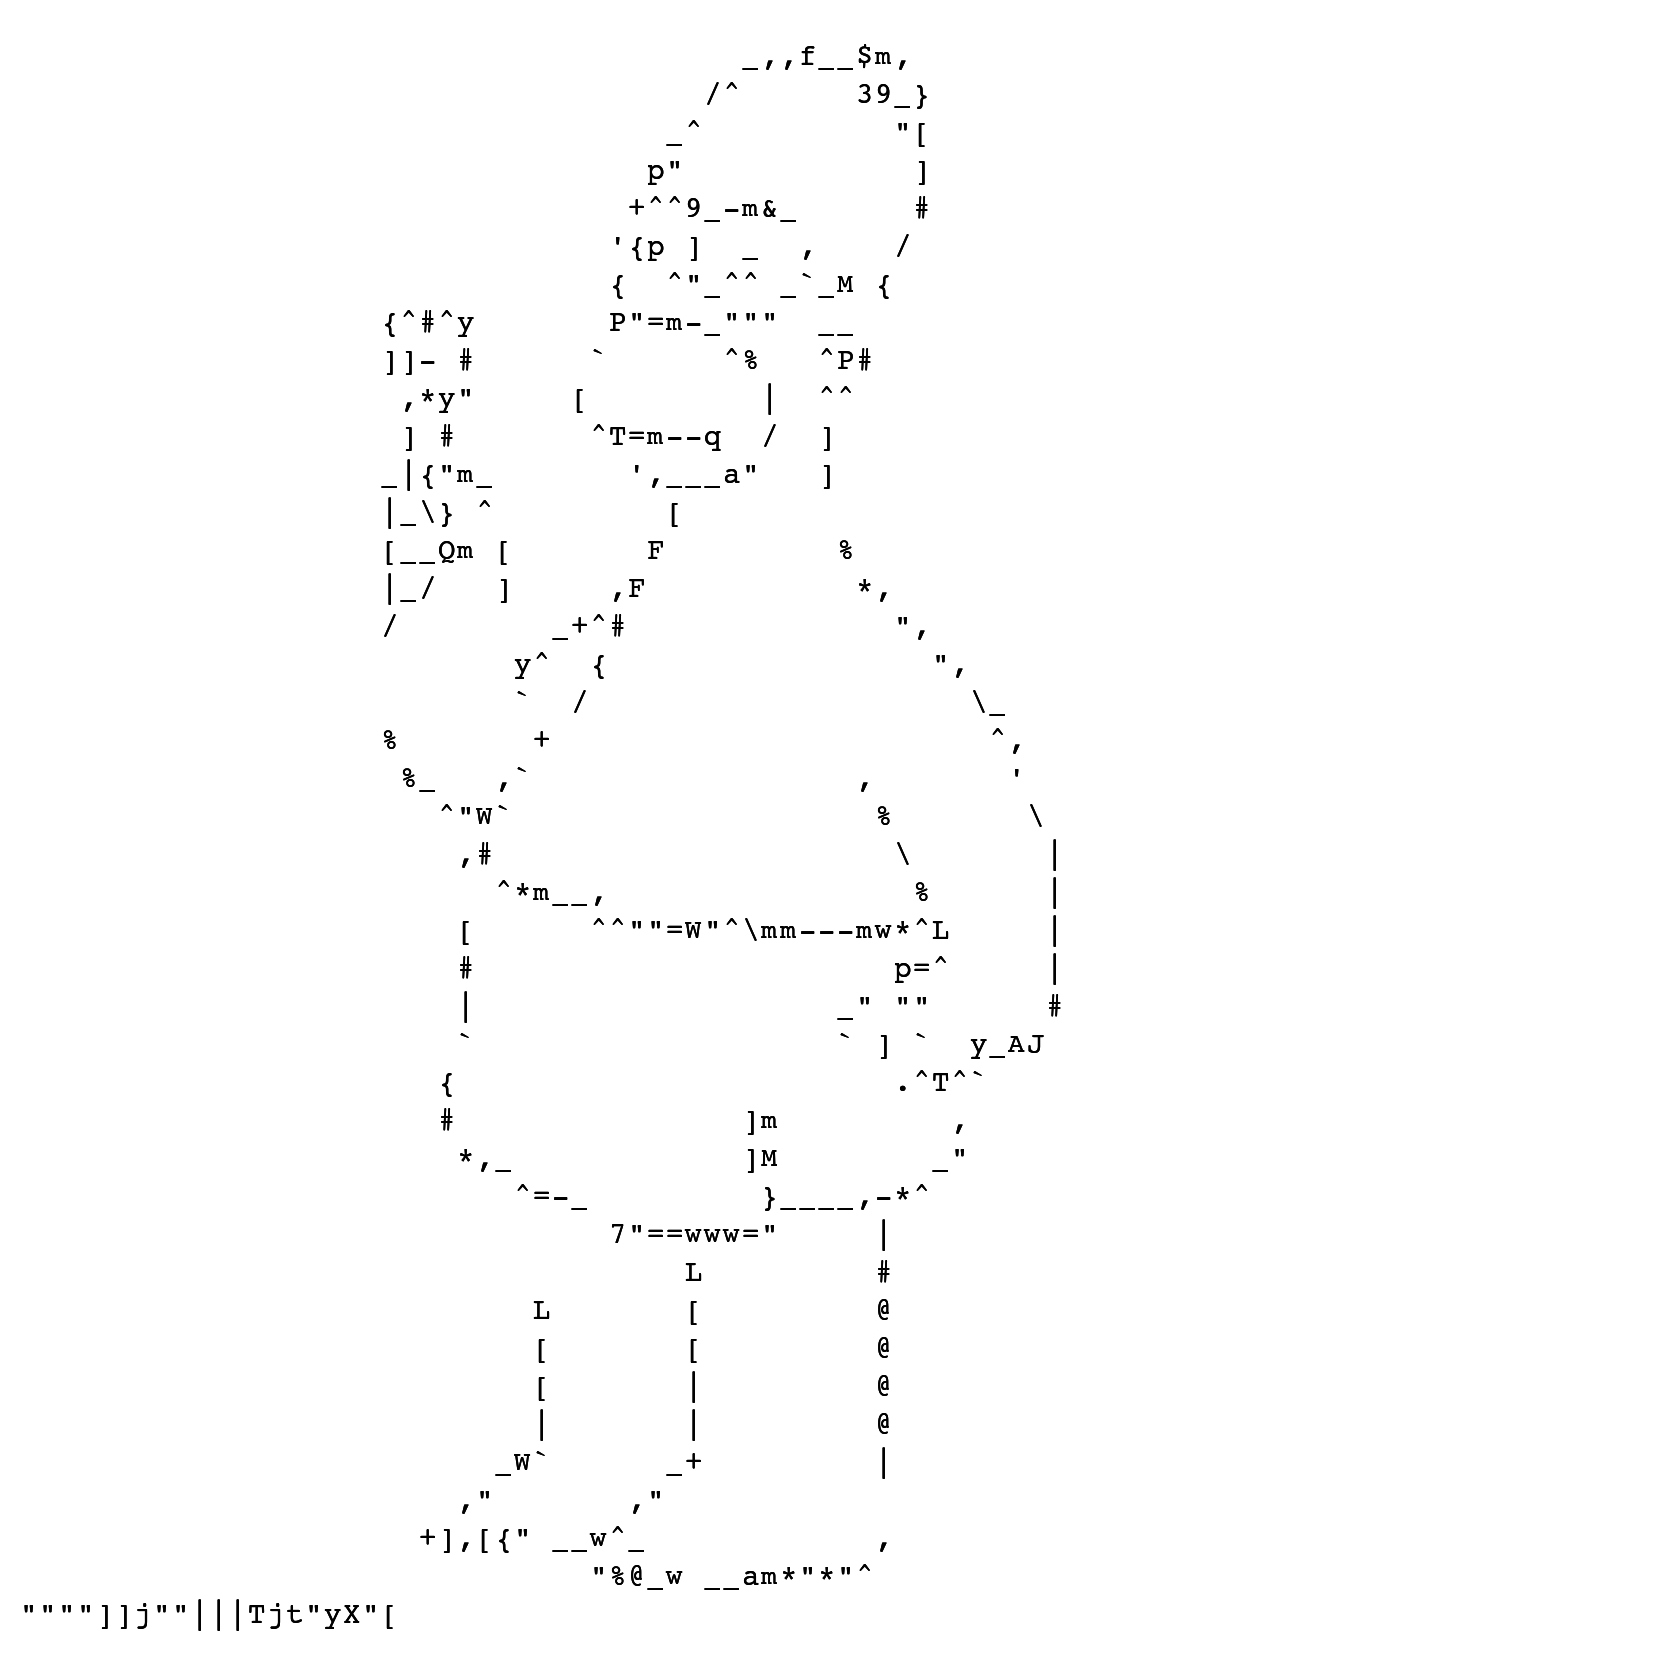
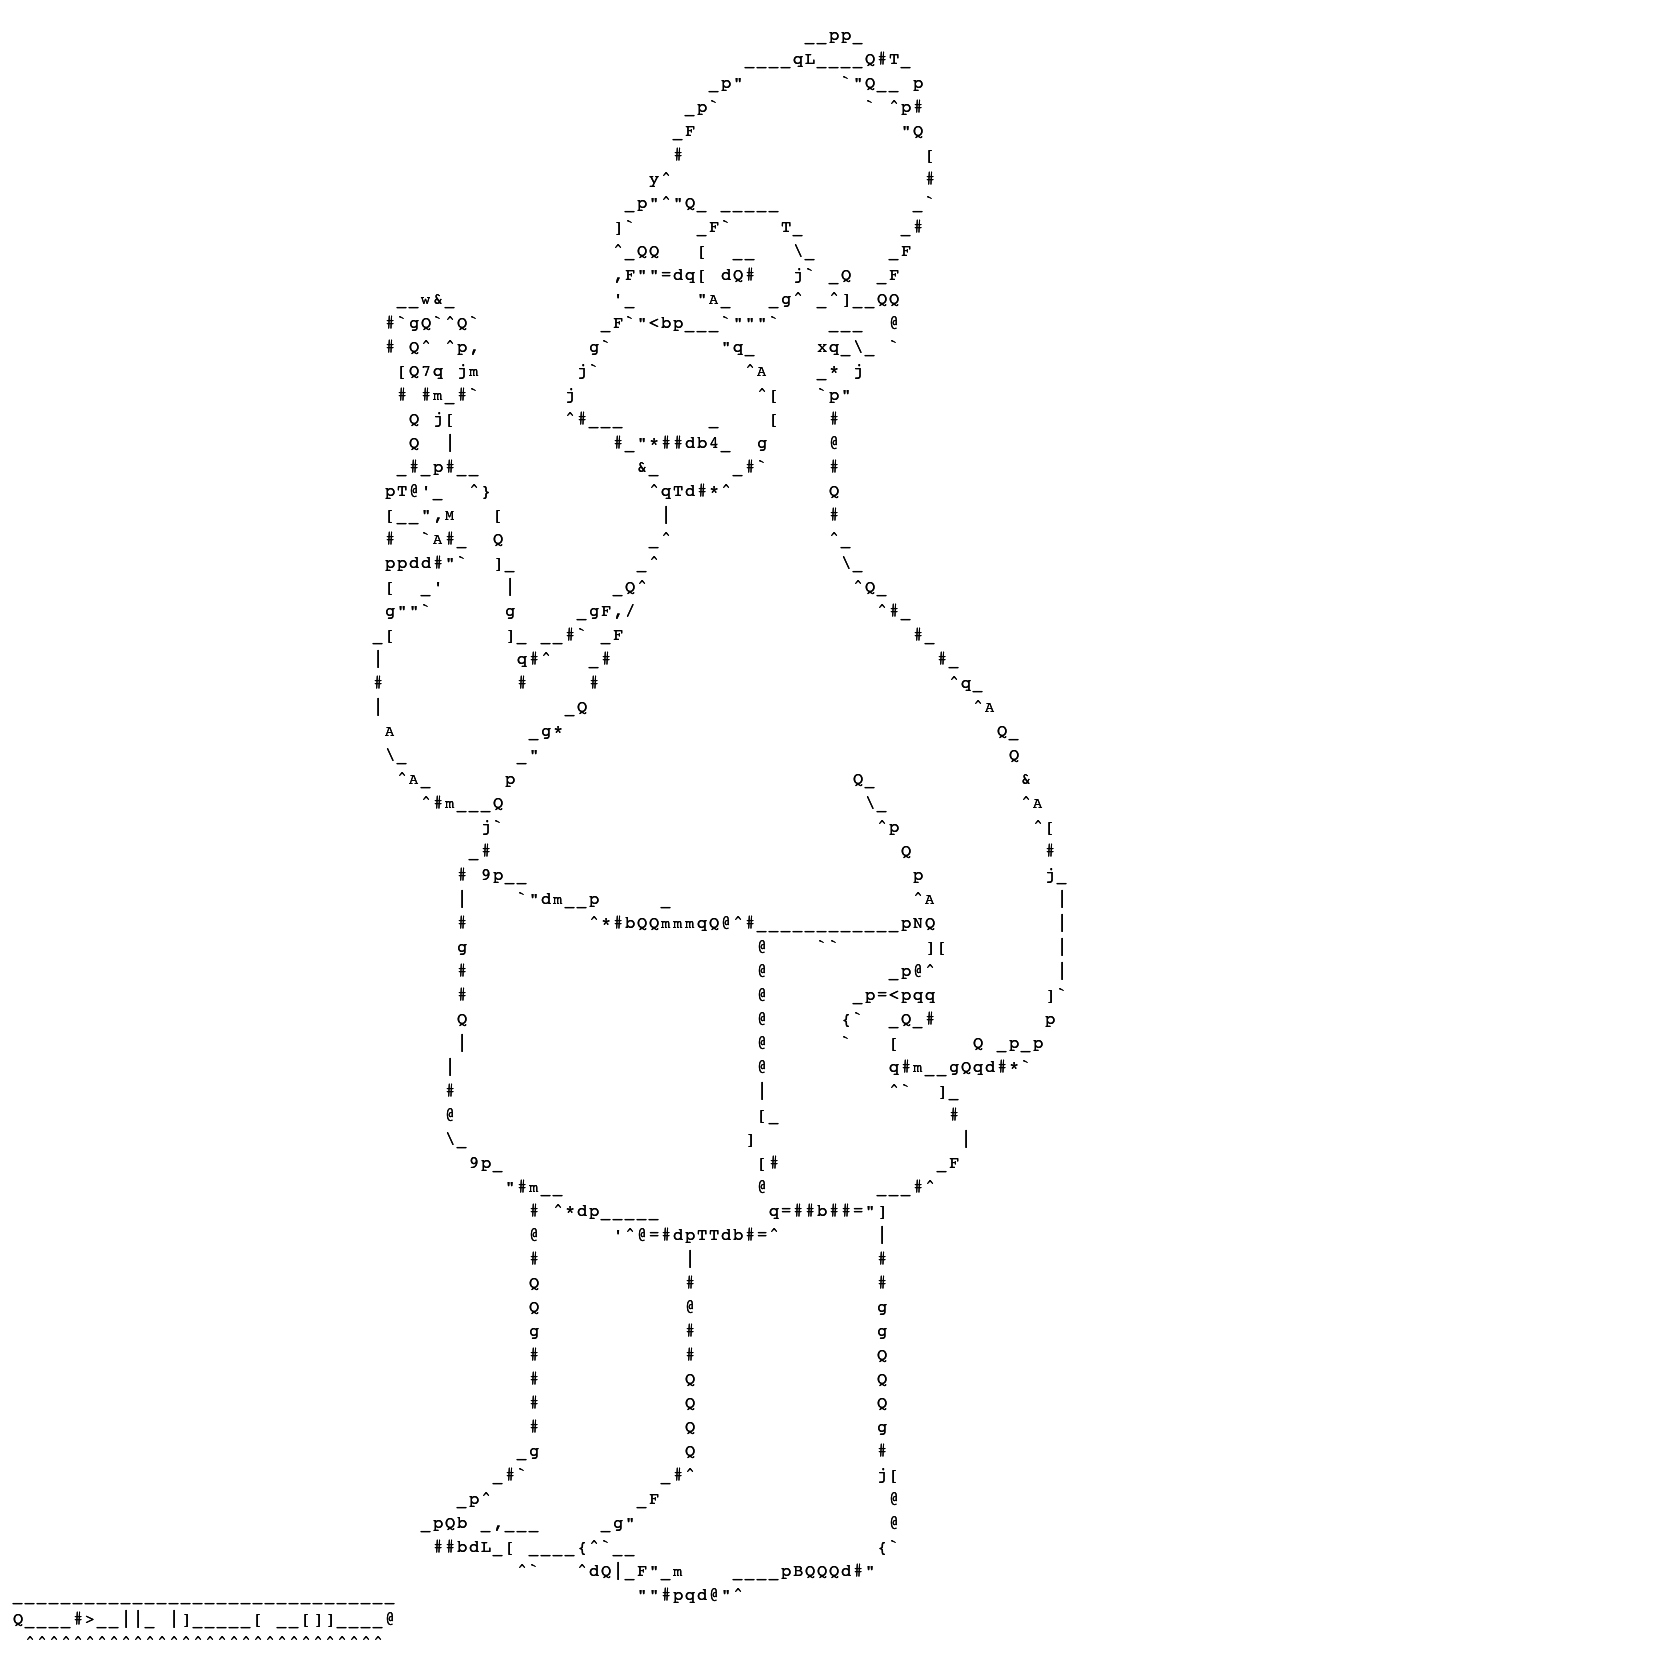
changes

diff --git a/Courier/ttf2png.rb b/Courier/ttf2png.rb
@@ -17,7 +17,7 @@
 #//-------------------------------------------
 
 FONT      = "courier.ttf"
-FONT_SIZE = "19x38" #pt
+FONT_SIZE = "12x24" #pt
 
 FIRST     = "\u0020"  # == "あ"
 LAST      = "\u007e"  # == "ヺ"

diff --git a/README.md b/README.md
@@ -1,4 +1,2 @@
 # ascii
 Convert images to ASCII
-
-Check out www.sidmontu.com/projects.html#ascii for details.
